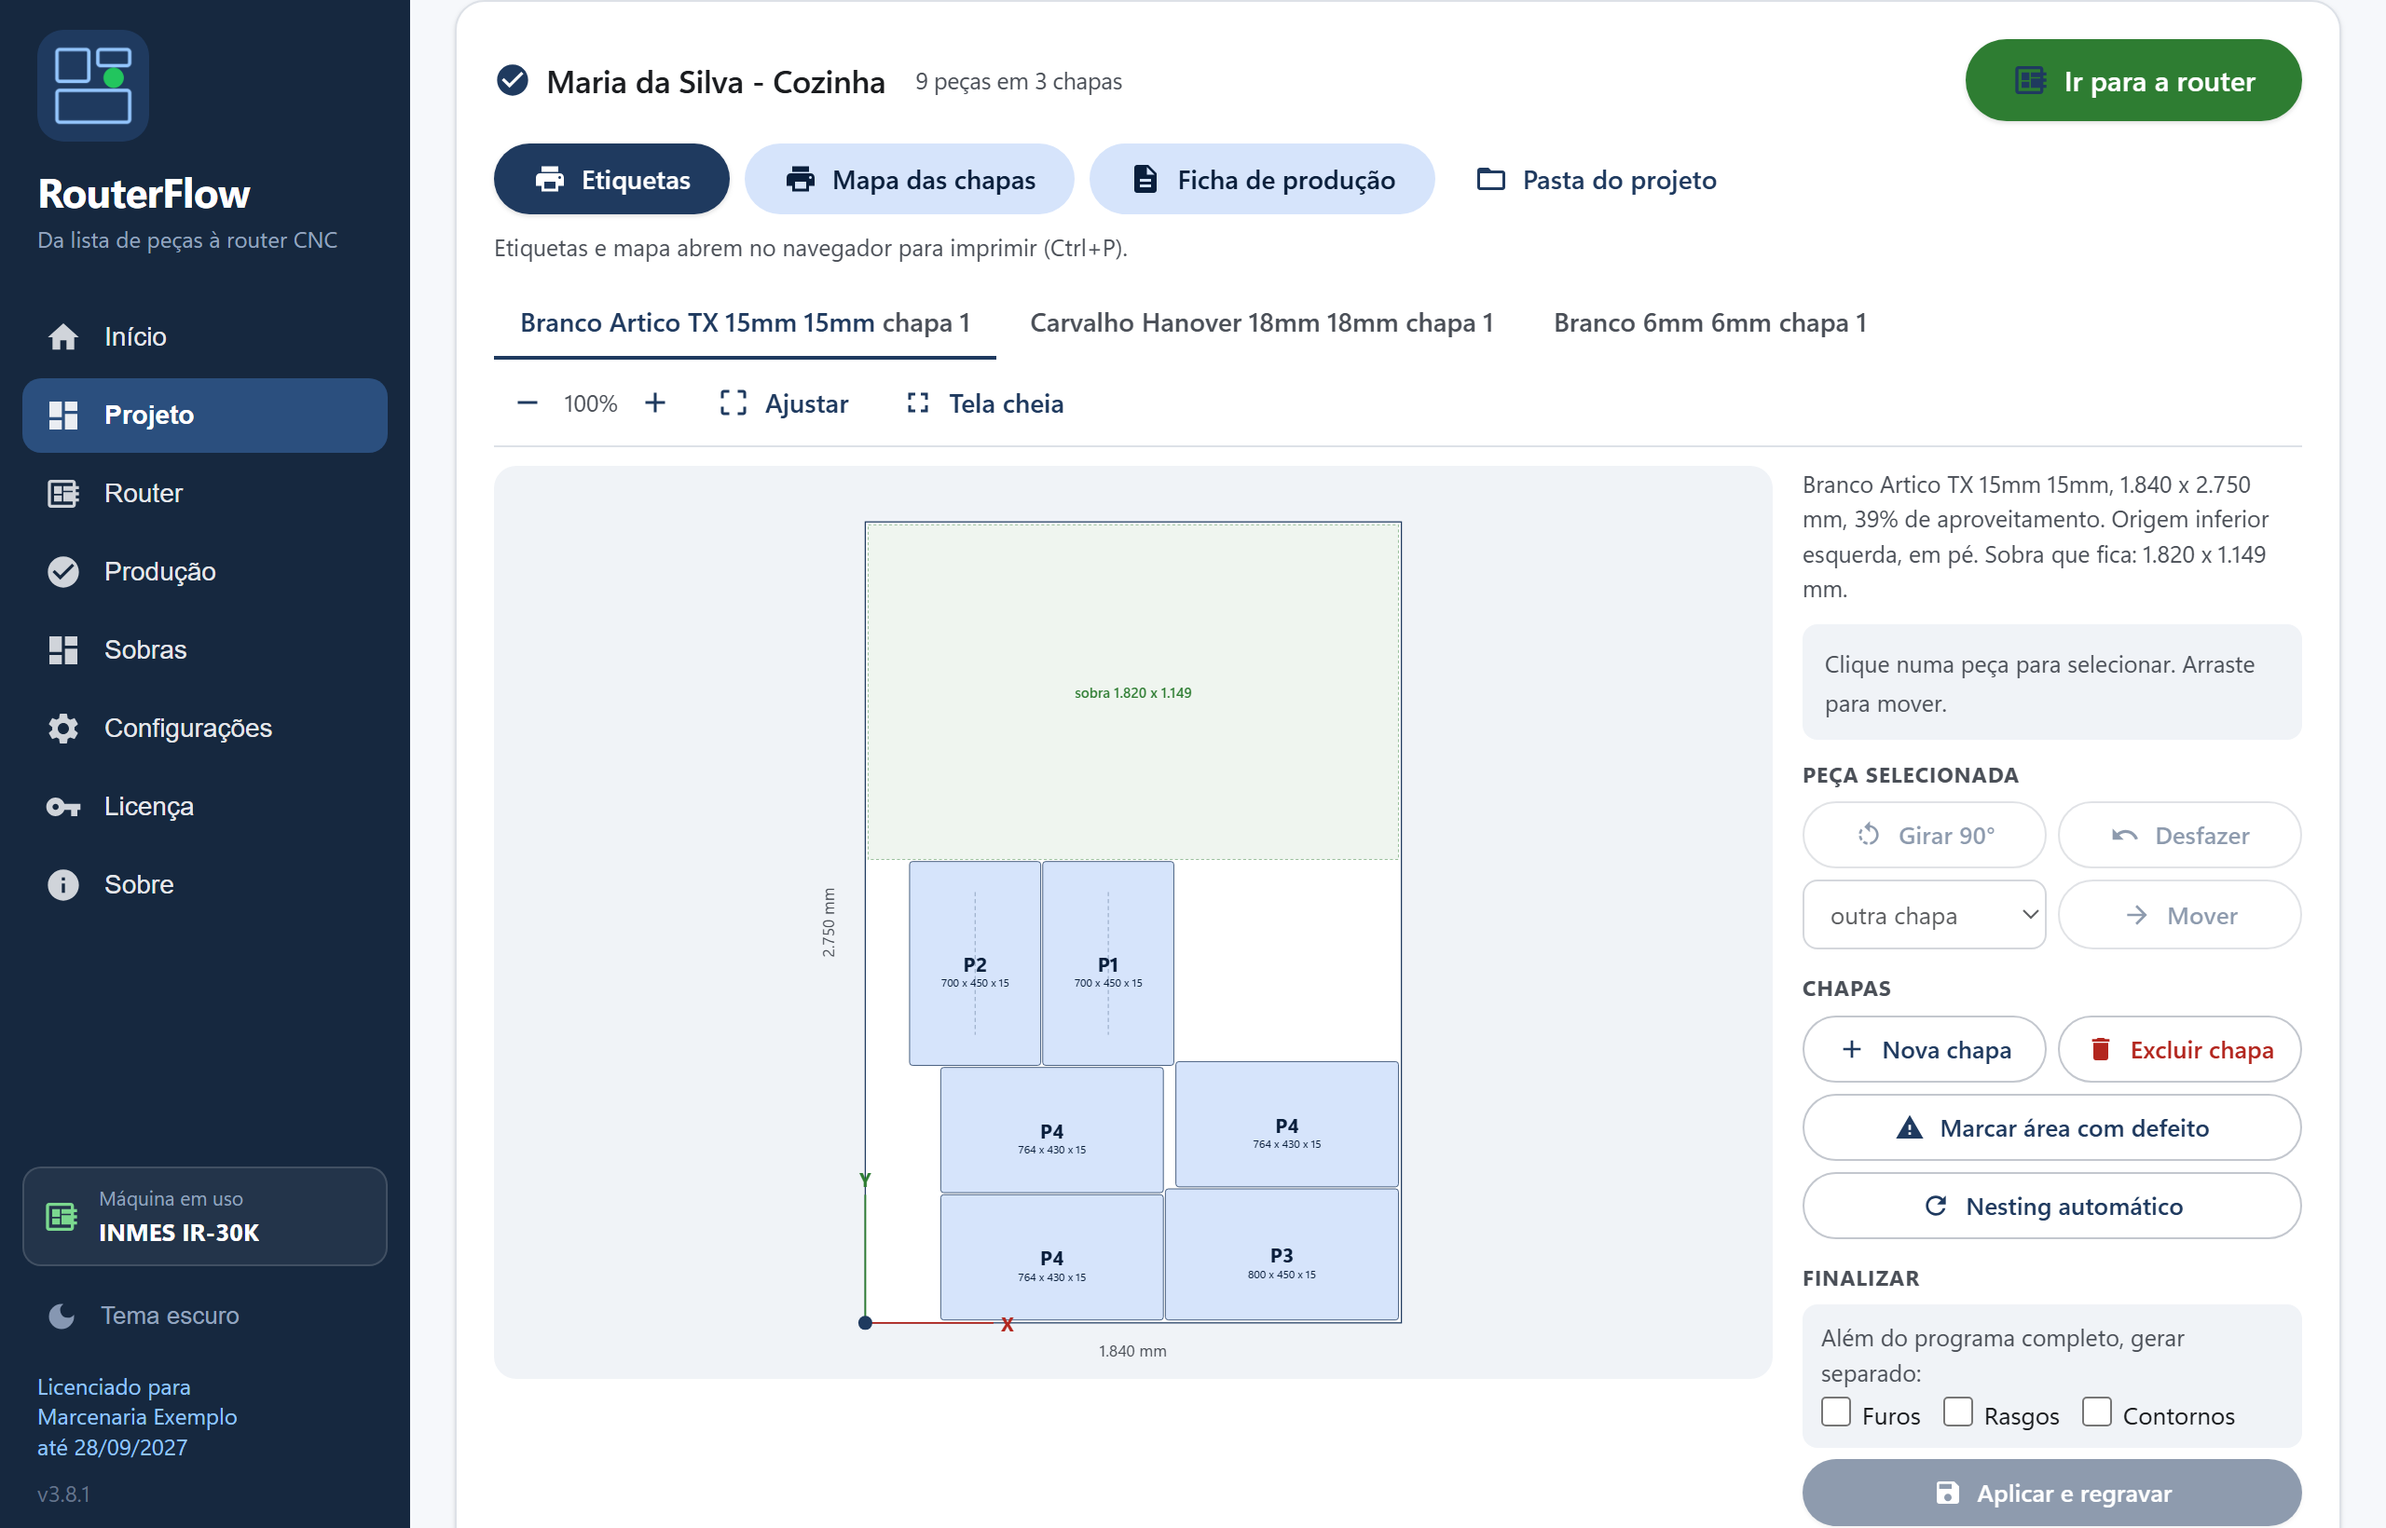
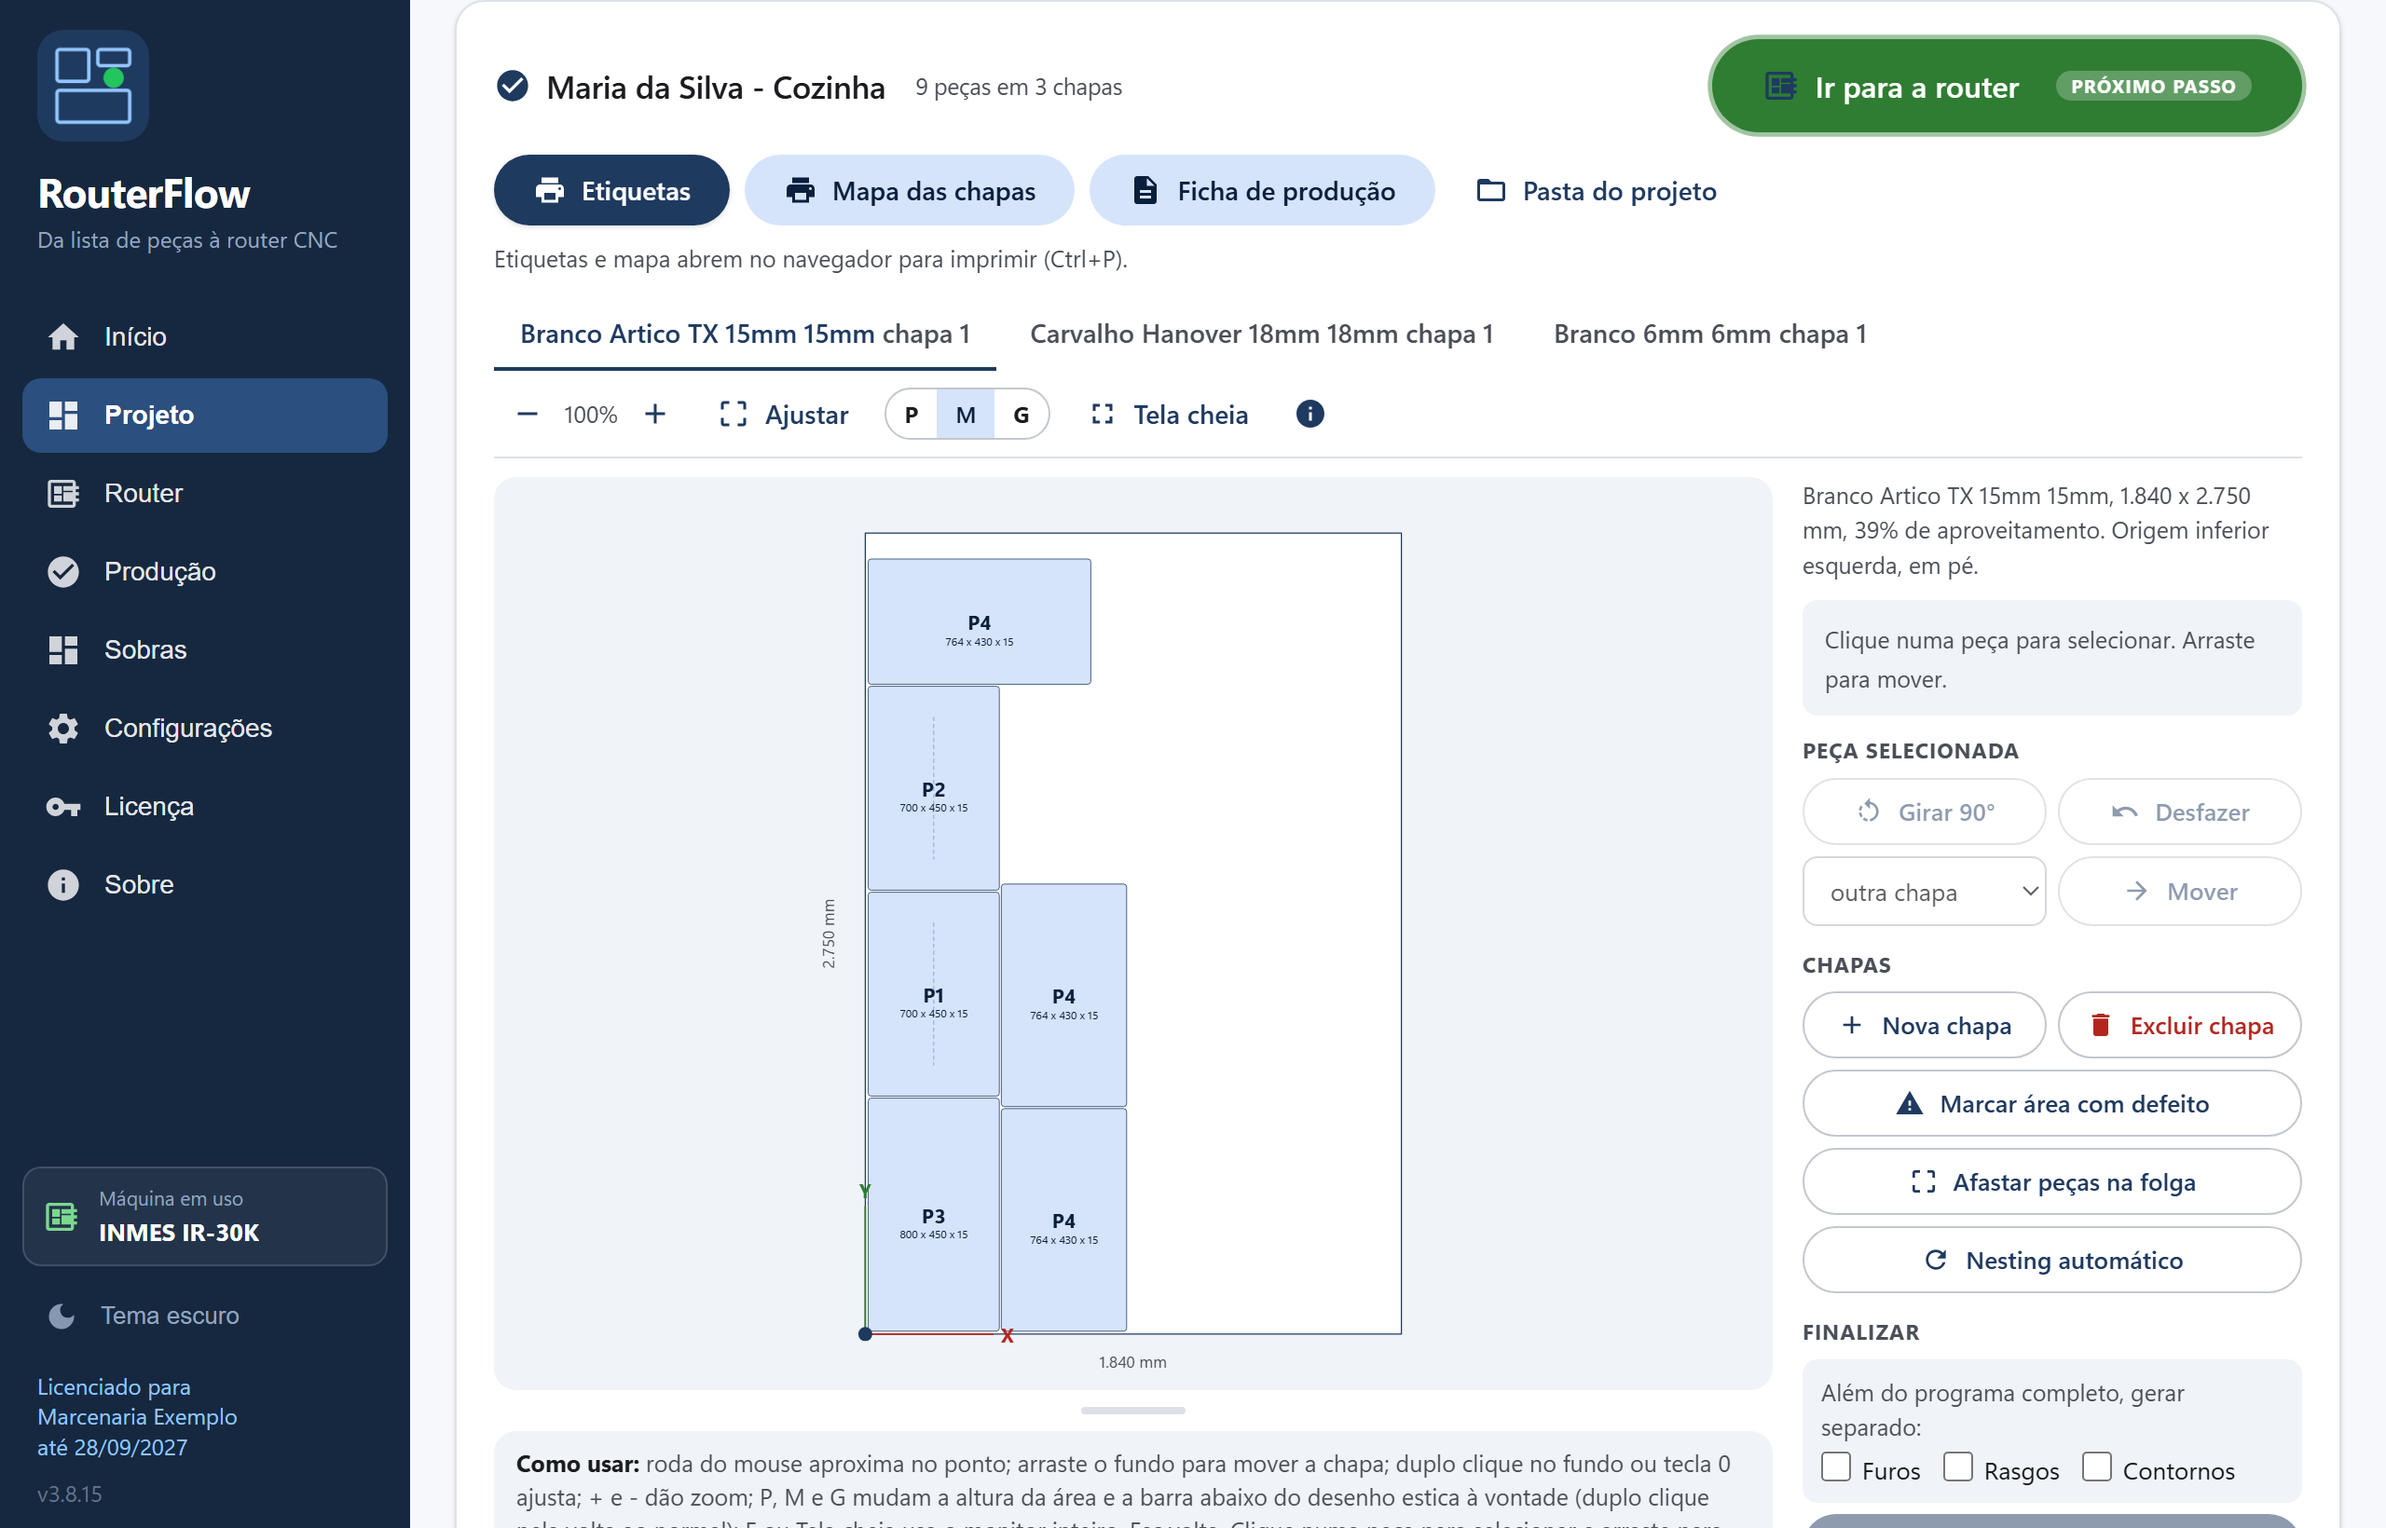
Site: novidades 3.8.16, manual e imagens da tela Projeto refeitas

diff --git a/manual.html b/manual.html
@@ -63,7 +63,7 @@ code { background: var(--surface-low); padding: 1px 6px; border-radius: 6px; fon
   <article class="man-body">
   <div class="man-here" id="man-here"><a href="#man-toc" style="color:inherit;text-decoration:none">Você está em: <b id="man-here-t"></b></a></div>
 <h1 id="manual-do-routerflow-uso-e-configuração">Manual do RouterFlow: uso e configuração</h1>
-<p>Este manual mostra, tela por tela, como usar o RouterFlow desde a instalação até a chapa cortada, e explica cada campo das configurações: o que ele faz, quando mexer e qual valor usar. Ele vale para a versão 3.8.15 em diante.</p>
+<p>Este manual mostra, tela por tela, como usar o RouterFlow desde a instalação até a chapa cortada, e explica cada campo das configurações: o que ele faz, quando mexer e qual valor usar. Ele vale para a versão 3.8.16 em diante.</p>
 <p>O caminho no programa é sempre o mesmo, e o menu da esquerda segue essa ordem: <b>Projeto</b> (escolher os CSV e gerar as chapas), <b>Router</b> (conferir o programa antes de cortar), <b>Produção</b> (cortar chapa a chapa) e <b>Sobras</b> (o que ficou e volta para o estoque). Antes do primeiro projeto, vale gastar dez minutos em <b>Configurações</b> para o programa sair do jeito da sua máquina.</p>
 <p>Em cada tela, o botão da próxima etapa aparece maior, com a marca "PRÓXIMO PASSO" e a borda pulsando. Se estiver em dúvida sobre o que fazer, procure esse botão.</p>
 <h2 id="instalar-e-ativar">Instalar e ativar</h2>
@@ -203,11 +203,14 @@ code { background: var(--surface-low); padding: 1px 6px; border-radius: 6px; fon
 <p>O RouterFlow lembra as últimas escolhas para o próximo projeto, menos "Corte no ar".</p>
 <h3 id="etapa-3-gerar-chapas">Etapa 3: gerar chapas</h3>
 <p>Com pelo menos um arquivo escolhido, o botão <b>Gerar chapas</b> fica ativo e marcado como próximo passo. Ao clicar, o registro da geração mostra o que está acontecendo: leitura dos arquivos, nesting por material (doze estratégias, fica a melhor), gravação dos arquivos.</p>
+<figure class="shot"><img class="zoom" src="img/manual/projeto-gerado.png" alt="Depois de gerar: as etapas 1 e 2 viram uma linha de resumo com o botão Editar e gerar de novo, e o resultado aparece logo abaixo" loading="lazy"><figcaption>Depois de gerar: as etapas 1 e 2 viram uma linha de resumo com o botão Editar e gerar de novo, e o resultado aparece logo abaixo</figcaption></figure>
+<p>Assim que as chapas saem, as etapas 1 e 2 se recolhem numa linha de resumo: os arquivos, a máquina, a orientação das peças, a origem e as opções marcadas. Para trocar qualquer coisa (outro arquivo, outra máquina, ligar o verso, mudar a origem), clique em <b>Editar e gerar de novo</b>: as duas etapas abrem outra vez e o botão Gerar chapas regrava os arquivos do projeto na mesma pasta. Nada do que foi gerado antes se perde: o projeto.json guarda tudo.</p>
+<p>Os arquivos DXF e os programas .nc não aparecem listados na tela: uma linha diz quantos foram gravados e em que pasta. Os programas ficam na <b>Router</b> (para conferir) e na <b>Produção</b> (pendrive e chapa feita); o DXF é para quem usa o Aspire e está na pasta do projeto.</p>
 <p>O que sai na pasta do projeto (Cliente - Ambiente_RouterFlow):</p>
 <div class='tbl'><table class='man'><thead><tr><th>Arquivo</th><th>O que é</th></tr></thead><tbody><tr><td>Cliente_Material.dxf</td><td>Todas as chapas do material num DXF só, layers CONTORNO, FURO_D5_P12, RASGO_L6_P6, TEXTO e CHAPA, na orientação e origem da mesa</td></tr><tr><td>Cliente_Material_VERSO.dxf</td><td>Usinagem da face de trás, espelhada, quando existe</td></tr><tr><td>Cliente_Material_chapa1.nc</td><td>Programa da router de cada chapa (e _VERSO.nc quando marcado)</td></tr><tr><td>etiquetas.html, mapa_chapas.html, ficha_producao.html</td><td>Impressos, abrem no navegador para imprimir com Ctrl+P</td></tr><tr><td>lista_pecas.csv, lista_fitagem.csv, ferragens.csv</td><td>Planilhas para Excel ou para o seu sistema</td></tr><tr><td>projeto.json</td><td>O projeto inteiro, para reabrir</td></tr><tr><td>relatorio.txt</td><td>Resumo em texto</td></tr></tbody></table></div>
 <h3 id="etapa-4-ajustar-no-editor-de-chapas">Etapa 4: ajustar no editor de chapas</h3>
 <figure class="shot"><img class="zoom" src="img/manual/editor.png" alt="Editor de chapas: cabeçalho com os impressos, abas por chapa, barra de zoom, o desenho e o painel de ações" loading="lazy"><figcaption>Editor de chapas: cabeçalho com os impressos, abas por chapa, barra de zoom, o desenho e o painel de ações</figcaption></figure>
-<p>No alto: o nome do projeto, quantas peças em quantas chapas, e o botão <b>Ir para a router</b> (próximo passo). Logo abaixo, <b>Etiquetas</b>, <b>Mapa das chapas</b>, <b>Ficha de produção</b> e <b>Pasta do projeto</b>.</p>
+<p>No alto: o nome do projeto, quantas peças em quantas chapas, e o botão <b>Ir para a router</b> (próximo passo). Logo abaixo, <b>Etiquetas</b>, <b>Mapa das chapas</b>, <b>Ficha de produção</b> e <b>Pasta do projeto</b>. No fim do cartão ficam as sobras de cada chapa (quando marcadas) e os avisos do projeto.</p>
 <p>Uma aba por chapa, com material e número. A barra acima do desenho:</p>
 <ul>
 <li><b>- 100% +</b> zoom; <b>Ajustar</b> enquadra a chapa; <b>P, M, G</b> mudam a altura da área do desenho; <b>Tela cheia</b> usa o monitor inteiro (Esc volta); o botão <b>i</b> mostra ou esconde as dicas.</li>

diff --git a/index.html b/index.html
@@ -287,7 +287,8 @@
   <p class="sub">O que chegou em cada atualização, da mais nova para a mais antiga. Quem já tem o RouterFlow recebe tudo isso sozinho.</p>
   <div class="news-list">
     <!-- novidades:inicio -->
-    <details open><summary><b>Versão 3.8.15</b><span class="news-t">Encaixe em faixa: a chapa rende mais e a sobra fica inteira</span><span class="news-d">29/09/2026</span></summary><ul><li>As peças agora enchem uma faixa ao longo do lado comprido da chapa antes de alargar: peça só vai para a fileira seguinte quando não cabe mais na atual. O que sobra é uma tira inteira, de ponta a ponta.</li><li>Peça sem veio gira 90 graus quando é assim que ela cabe no fim da fileira. A orientação Em pé ou Deitadas continua valendo, mas não custa mais espaço na chapa.</li><li>Entre as estratégias de encaixe, fica a que ocupa a faixa mais estreita. Vale para cada chapa, para o Nesting automático do editor e para &quot;Unir tudo numa chapa só&quot;.</li></ul></details>
+    <details open><summary><b>Versão 3.8.16</b><span class="news-t">Tela Projeto mais limpa depois de gerar</span><span class="news-d">29/09/2026</span></summary><ul><li>Gerou as chapas? As etapas 1 e 2 se recolhem numa linha só: arquivos, máquina, orientação, origem e opções. Quer mudar algo? Clique em &quot;Editar e gerar de novo&quot; e tudo abre outra vez.</li><li>As listas de arquivos DXF e de programas .nc saíram do resultado. Uma linha diz quantos foram gravados e onde. Os programas continuam na Router (conferir) e na Produção (pendrive e chapa feita), que é onde você usa eles.</li></ul></details>
+    <details><summary><b>Versão 3.8.15</b><span class="news-t">Encaixe em faixa: a chapa rende mais e a sobra fica inteira</span><span class="news-d">29/09/2026</span></summary><ul><li>As peças agora enchem uma faixa ao longo do lado comprido da chapa antes de alargar: peça só vai para a fileira seguinte quando não cabe mais na atual. O que sobra é uma tira inteira, de ponta a ponta.</li><li>Peça sem veio gira 90 graus quando é assim que ela cabe no fim da fileira. A orientação Em pé ou Deitadas continua valendo, mas não custa mais espaço na chapa.</li><li>Entre as estratégias de encaixe, fica a que ocupa a faixa mais estreita. Vale para cada chapa, para o Nesting automático do editor e para &quot;Unir tudo numa chapa só&quot;.</li></ul></details>
     <details><summary><b>Versão 3.8.14</b><span class="news-t">Padrão de fábrica: corte de uma vez, como na máquina</span><span class="news-d">29/09/2026</span></summary><ul><li>Máquina nova já nasce cortando como a router faz de verdade: uma passada só até 0,1 mm na mesa (passe 20), rampa curta de 5 mm, sem abas, altura segura 15, fresa de 6 mm a 11000 de avanço e 4000 de mergulho.</li><li>Quem já tem máquina cadastrada não muda nada sozinho: os valores de Ferramentas e Corte continuam os seus. Para adotar os novos, ajuste em Configurações ou use Restaurar padrões.</li></ul></details>
     <details><summary><b>Versão 3.8.13</b><span class="news-t">Corte passante igual ao do Aspire</span><span class="news-d">29/09/2026</span></summary><ul><li>O corte que atravessa a chapa passou a entrar 0,1 mm na mesa, como o Aspire faz (chapa de 15 mm corta a 15,1). Antes eram 0,3 mm. Quem já ajustou &quot;Entrada na mesa&quot; em Configurações, Corte, continua com o seu valor.</li><li>Modelo novo de pós-processador &quot;INMES IR-30K, programa real&quot;, copiado de um programa que rodou na máquina: sem numeração de linha. O modelo antigo, tirado do .pp do Aspire, continua disponível.</li></ul></details>
     <details><summary><b>Versão 3.8.12</b><span class="news-t">Encaixe mais apertado, começando no zero da máquina</span><span class="news-d">29/09/2026</span></summary><ul><li>As peças agora são puxadas para o canto do zero da máquina e encostadas umas nas outras, mantendo a folga. Acabaram as escadinhas e os buracos entre peças: o espaço livre fica inteiro do lado oposto, pronto para virar sobra.</li><li>Entre as doze estratégias de encaixe, o RouterFlow passa a preferir a que deixa as peças mais juntas, e não só a que gasta menos chapa. Vale para cada chapa e para &quot;Unir tudo numa chapa só&quot;.</li></ul></details>
